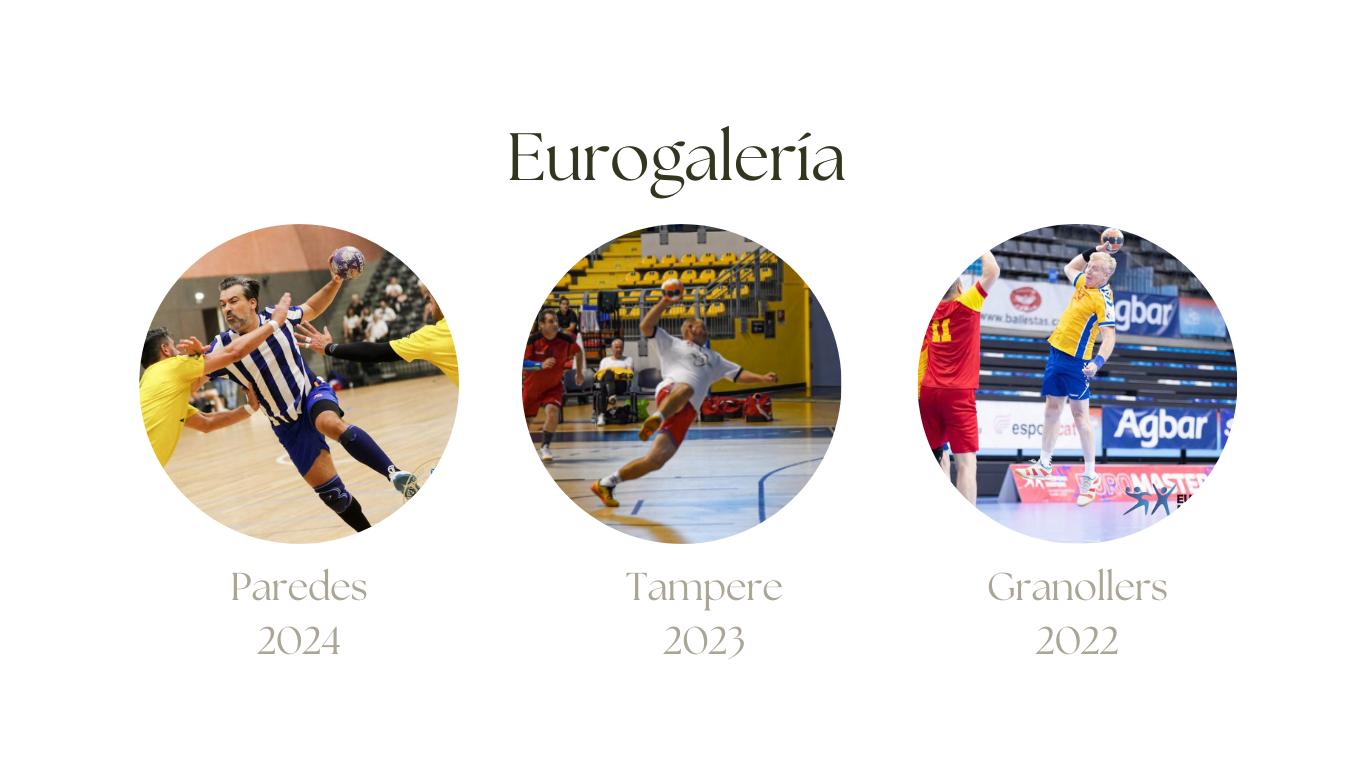
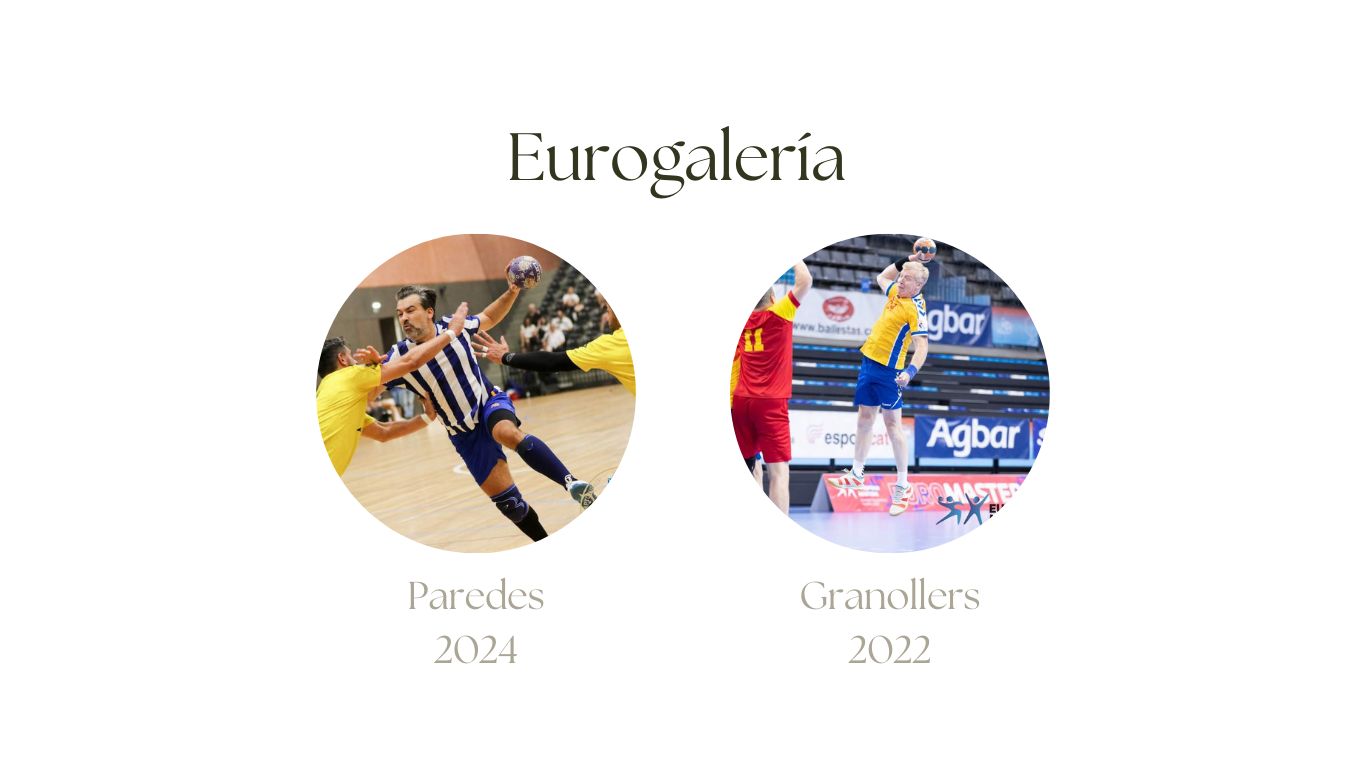
changes

diff --git a/pages/sedes.html b/pages/sedes.html
@@ -38,15 +38,11 @@
             rel="noopener noreferrer">Triana</a>
         </li>
         <!-- <li><a href="sponsors.html">sponsors</a></li> -->
-        <li><a href="galery.html">Eurogaleria</a></li>
-        <!-- <li>
-            <a
-            href="https://www.divisioneventosdeportivos.com/deportes/cgi.hrb?idexp=Y828S&main=alojamientos&idsubexp=J8WHV#hotel003"
-            target="_blank"
-            rel="noopener noreferrer"
-            >Alojamientos</a
-            >
-          </li> -->
+        <!-- <li><a href="galery.html">Eurogaleria</a></li> -->
+        <li>
+          <a href="https://www.divisioneventosdeportivos.com/deportes/cgi.hrb?idexp=Y828S&main=alojamientos&idsubexp=J8WHV#hotel003"
+            target="_blank" rel="noopener noreferrer">Alojamientos</a>
+        </li>
         <!-- <li><a href="championship.html">Torneo</a></li> -->
         <!-- <li><a href="news.html">Noticias</a></li> -->
         <!-- <li><a href="contact.html">Contacto</a></li> -->
@@ -87,64 +83,68 @@
             5. Mendigorría Sport Center</br>
           </p> -->
         </header>
-        <div class="image main"><img src="../images/pic01.jpg" alt="" /></div>
+        <div class="image main"><img src="../img/GENERAL.jpg" alt="" /></div>
       </section>
       <section class="posts">
         <article>
           <header>
             <h2><a href="#">El paraguas</a></h2>
           </header>
-          <a href="#" class="image fit"><img src="../img/ParaguasPlano.jpeg" alt="" /></a>
+          <!-- <a href="#" class="image fit"><img src="../img/ParaguasPlano.jpeg" alt="" /></a> -->
+          <a class="image fit"><img src="../img/PARAGUAS_01.jpg" alt="" /></a>
+          <a class="image fit"><img src="../img/PARAGUAS_02.jpg" alt="" /></a>
           <p>Center court and Fan Zone </br>Ubication: Plaza del Monte Pirolo, s/n - 41010 Sevilla</br>Telephone:
-            +34-955 47 52 46</br>Parquet court, four changing rooms, electronic scoreboard, capacity 400 people</p>
-          <a href="#" class="image fit"><img src="../img/Paraguas1.jpeg" alt="" /></a>
-          <a href="#" class="image fit"><img src="../img/Paraguas2.jpeg" alt="" /></a>
+            +34-955 47 52 46</br>Parquet court, four changing rooms, electronic scoreboard, capacity 400 people.</p>
           <ul class="actions special">
-            <li><a href="#" class="button">Full Story</a></li>
+            <!-- <li><a href="#" class="button">Full Story</a></li> -->
           </ul>
         </article>
         <article>
           <header>
             <h2><a href="#">Mar de Plata</a></h2>
           </header>
-          <a href="#" class="image fit"><img src="../images/pic03.jpg" alt="" /></a>
+          <a class="image fit"><img src="../img/MARDEPLATA_01.jpg" alt="" /></a>
+          <a class="image fit"><img src="../img/MARDEPLATA_02.jpg" alt="" /></a>
           <p>Ubication: Cl. Mar del Plata, s/n - 41010 Sevilla</br>Telephone: +34-955475393</br>Synthetic court, six
-            changing rooms, electronic scoreboard, capacity 200 people</p>
+            changing rooms, electronic scoreboard, capacity 200 people.</p>
           <ul class="actions special">
-            <li><a href="#" class="button">Full Story</a></li>
+            <!-- <li><a class="button">Full Story</a></li> -->
           </ul>
         </article>
         <article>
           <header>
             <h2><a href="#">Amate</a></h2>
           </header>
-          <a href="#" class="image fit"><img src="../images/pic05.jpg" alt="" /></a>
+          <a class="image fit"><img src="../img/AMATE_01.jpg" alt="" /></a>
+          <a class="image fit"><img src="../img/AMATE_02.jpg" alt="" /></a>
           <p>Ubication: Avda. de la Revoltosa, s/n - 41006 Sevilla</br>Telephone: +34-955 47 52 31</br>Parquet court,
-            six changing rooms, electronic scoreboard.capacity 1000 people</p>
+            six changing rooms, electronic scoreboard, capacity 1000 people.</p>
           <ul class="actions special">
-            <li><a href="#" class="button">Full Story</a></li>
+            <!-- <li><a href="#" class="button">Full Story</a></li> -->
           </ul>
         </article>
         <article>
           <header>
             <h2><a href="#">Rochelambert</a></h2>
           </header>
-          <a href="#" class="image fit"><img src="../images/pic06.jpg" alt="" /></a>
+          <a class="image fit"><img src="../img/ROCHELA_01.jpg" alt="" /></a>
+          <a class="image fit"><img src="../img/ROCHELA_02.jpg" alt="" /></a>
           <p>Ubication: Cl. Doña Francisquita, s/n - 41006 Sevilla</br>Telephone: +34-955475312</br>Synthetic court,
-            four changing rooms, electronic scoreboard capacity 200 people</p>
+            four changing rooms, electronic scoreboard, capacity 200 people.</p>
           <ul class="actions special">
-            <li><a href="#" class="button">Full Story</a></li>
+            <!-- <li><a href="#" class="button">Full Story</a></li> -->
           </ul>
         </article>
         <article>
           <header>
             <h2><a href="#">Mendigorría</a></h2>
           </header>
-          <a href="#" class="image fit"><img src="../images/pic04.jpg" alt="" /></a>
+          <a class="image fit"><img src="../img/MENDIGORRIA_01.jpg" alt="" /></a>
+          <a class="image fit"><img src="../img/MENDIGORRIA_02.jpg" alt="" /></a>
           <p>Ubication: c/ Clavijo, 11 - 41002 Sevilla</br>Telephone: +34-955 47 53 88</br>Synthetic court, four
-            changing rooms, electronic scoreboard, capacity 250 people</p>
+            changing rooms, electronic scoreboard, capacity 250 people.</p>
           <ul class="actions special">
-            <li><a href="#" class="button">Full Story</a></li>
+            <!-- <li><a href="#" class="button">Full Story</a></li> -->
           </ul>
         </article>
       </section>
@@ -158,7 +158,7 @@
     <div id="copyright">
       <ul>
         <li>&copy; ROLLER</li>
-        <li>Design: <a href="">ROLLER</a></li>
+        <!-- <li>Design: <a href="">ROLLER</a></li> -->
       </ul>
     </div>
   </div>

diff --git a/index.html b/index.html
@@ -15,8 +15,8 @@
   <!-- Wrapper -->
   <div id="wrapper" class="fade-in">
     <!-- Intro -->
-    <div id="intro">
-      <img src="../img/logo9.png" alt="EuroMasterHandball2025" />
+    <div id="intro" style="height:auto; min-height: 300px">
+      <img src="../img/logo_puente.jpeg" alt="EuroMasterHandball2025" />
       <!-- <h1>
         EUROPEAN<br />
         MASTER Handball<br />
@@ -55,15 +55,11 @@
         </li>
         </li>
         <!-- <li><a href="pages/sponsors.html">sponsors</a></li> -->
-        <li><a href="pages/galery.html">Eurogaleria</a></li>
-        <!-- <li>
-          <a
-          href="https://www.divisioneventosdeportivos.com/deportes/cgi.hrb?idexp=Y828S&main=alojamientos&idsubexp=J8WHV#hotel003"
-          target="_blank"
-          rel="noopener noreferrer"
-          >ALOJAMIENTO</a
-          > -->
-        <!-- <li><a href="pages/championship.html">Torneo</a></li>
+        <!-- <li><a href="pages/galery.html">Eurogaleria</a></li> -->
+        <li>
+          <a href="https://www.divisioneventosdeportivos.com/deportes/cgi.hrb?idexp=Y828S&main=alojamientos&idsubexp=J8WHV#hotel003"
+            target="_blank" rel="noopener noreferrer">Alojamientos</a>
+          <!-- <li><a href="pages/championship.html">Torneo</a></li>
           <li><a href="pages/news.html">Noticias</a></li>
           <li><a href="pages/contact.html">Contacto</a></li> -->
       </ul>
@@ -137,8 +133,8 @@
           <ul class="actions" style="justify-content: space-between">
             <li><button type="submit">Enviar</button></li>
             <!-- justify-content: space-between; -->
-            <ul class="icons alt">
-              <li>
+            <ul class="icons alt" style="display: flex">
+              <li style="padding: 1rem 0 0 0;">
                 <a href="https://x.com/vbmsevilla" class="icon brands alt fa-twitter" target="_blank"
                   rel="noopener noreferrer"><span class="label">Twitter</span></a>
               </li>
@@ -158,63 +154,13 @@
             </ul>
           </ul>
         </form>
-      </section>
-      <!-- <section class="split contact">
-          <section class="alt">
-            <h3>Address</h3>
-            <p>
-              1234 Somewhere Road #87257<br />
-              Nashville, TN 00000-0000
-            </p>
-          </section>
-          <section>
-            <h3>Phone</h3>
-            <p><a href="#">(000) 000-0000</a></p>
-          </section>
-          <section>
-            <h3>Email</h3>
-            <p><a href="#">info@untitled.tld</a></p>
-          </section> 
-       <section>
-            <h3>Social</h3>
-            <ul class="icons alt">
-              <li>
-                <a
-                  href="https://x.com/vbmsevilla"
-                  class="icon brands alt fa-twitter"
-                  target="_blank"
-                  rel="noopener noreferrer"
-                  ><span class="label">Twitter</span></a
-                >
-              </li>
-              <li>
-                <a
-                  href="https://www.facebook.com/VeteranosBMSevilla"
-                  class="icon brands alt fa-facebook-f"
-                  target="_blank"
-                  rel="noopener noreferrer"
-                  ><span class="label">Facebook</span></a
-                >
-              </li>
-              <li>
-                <a
-                  href="https://www.instagram.com/veteranosbalonmanosevilla/?hl=es"
-                  class="icon brands alt fa-instagram"
-                  target="_blank"
-                  rel="noopener noreferrer"
-                  ><span class="label">Instagram</span></a
-                >
-              </li>
-            </ul>
-          </section> -->
-      </section>
     </footer>
 
     <!-- Copyright -->
     <div id="copyright">
       <ul>
         <li>&copy; ROLLER</li>
-        <li>Design: <a href="">ROLLER</a></li>
+        <!-- <li>Design: <a href="">ROLLER</a></li> -->
       </ul>
     </div>
   </div>

diff --git a/pages/document.html b/pages/document.html
@@ -38,15 +38,11 @@
             rel="noopener noreferrer">Triana</a>
         </li>
         <!-- <li><a href="sponsors.html">sponsors</a></li> -->
-        <li><a href="galery.html">Eurogaleria</a></li>
-        <!-- <li>
-            <a
-            href="https://www.divisioneventosdeportivos.com/deportes/cgi.hrb?idexp=Y828S&main=alojamientos&idsubexp=J8WHV#hotel003"
-            target="_blank"
-            rel="noopener noreferrer"
-            >Alojamientos</a
-            >
-          </li> -->
+        <!-- <li><a href="galery.html">Eurogaleria</a></li> -->
+        <li>
+          <a href="https://www.divisioneventosdeportivos.com/deportes/cgi.hrb?idexp=Y828S&main=alojamientos&idsubexp=J8WHV#hotel003"
+            target="_blank" rel="noopener noreferrer">Alojamientos</a>
+        </li>
         <!-- <li><a href="championship.html">Torneo</a></li> -->
         <!-- <li><a href="news.html">Noticias</a></li> -->
         <!-- <li><a href="contact.html">Contacto</a></li> -->
@@ -75,7 +71,7 @@
     <div id="main">
       <!-- Post -->
       <section class="post">
-        <header class="major">
+        <header class="major" style="display: grid;">
           <h1>
             Documentos
           </h1>
@@ -98,7 +94,7 @@
     <div id="copyright">
       <ul>
         <li>&copy; ROLLER</li>
-        <li>Design: <a href="">ROLLER</a></li>
+        <!-- <li>Design: <a href="">ROLLER</a></li> -->
       </ul>
     </div>
   </div>

diff --git a/pages/galery.html b/pages/galery.html
@@ -108,7 +108,7 @@
     <div id="copyright">
       <ul>
         <li>&copy; ROLLER</li>
-        <li>Design: <a href="">ROLLER</a></li>
+        <!-- <li>Design: <a href="">ROLLER</a></li> -->
       </ul>
     </div>
   </div>
